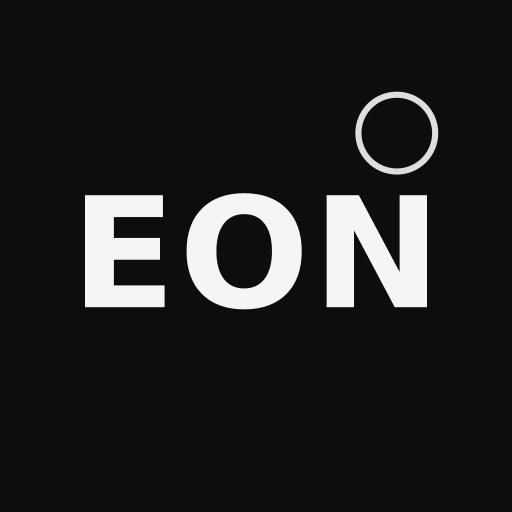
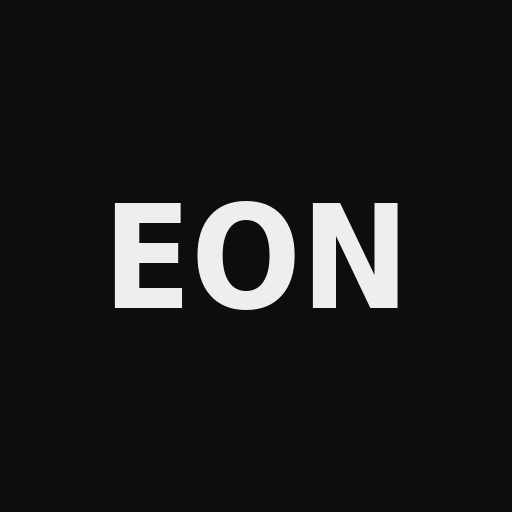
Add files via upload

diff --git a/index.html b/index.html
@@ -163,11 +163,9 @@ button:focus-visible, input:focus-visible, select:focus-visible, textarea:focus-
 }
 .topbar-inner{display:flex; align-items:flex-start; justify-content:space-between; flex-wrap:wrap; gap:16px; max-width:1600px; margin:0 auto; position:relative;}
 .brand{display:flex; align-items:center; gap:14px;}
-.brand-mark{font-weight:800; letter-spacing:.5px; line-height:1.05;}
-.brand-mark .l1{font-size:14.5px; color:#fff;}
-.brand-mark .l2{font-size:14.5px; color:#fff;}
-.brand-ring{width:26px; height:26px; border-radius:50%; border:2px solid var(--gold); position:relative; flex-shrink:0;}
-.brand-ring::after{content:''; position:absolute; top:50%; left:50%; width:6px; height:6px; margin:-3px 0 0 -3px; background:var(--gold-bright); border-radius:50%;}
+.brand-mark{font-weight:800; letter-spacing:-0.01em; line-height:1.02; font-family:'Satoshi','Inter',-apple-system,BlinkMacSystemFont,"Segoe UI",Roboto,sans-serif;}
+.brand-mark .l1{font-size:15.5px; color:#efedef;}
+.brand-mark .l2{font-size:15.5px; color:#efedef;}
 .title-block{flex:1; min-width:260px;}
 .title-block h1{font-size:20px; color:#fff; margin-bottom:3px; letter-spacing:-.015em; font-weight:700;}
 .title-block .sub{font-size:12.5px; color:#a7b4cf; letter-spacing:.005em;}
@@ -652,19 +650,17 @@ body.edit-mode .edit-banner{display:flex;}
 body.page-unlocked #appShell{display:block;}
 #pageLockGate{position:fixed; inset:0; z-index:99999; display:flex; align-items:center; justify-content:center; padding:24px; overflow:hidden;
   background:
-    radial-gradient(760px 520px at 82% 12%, rgba(52,87,213,.30), transparent 60%),
-    radial-gradient(620px 480px at 12% 88%, rgba(226,35,26,.16), transparent 55%),
-    linear-gradient(160deg, var(--navy), var(--navy2));}
+    radial-gradient(760px 520px at 82% 12%, rgba(201,162,39,.22), transparent 60%),
+    radial-gradient(620px 480px at 12% 88%, rgba(47,125,107,.14), transparent 55%),
+    linear-gradient(160deg, var(--ink-1,#050b14), var(--ink-2,#0a1526));}
 body.page-unlocked #pageLockGate{display:none;}
 #pageLockGate .lock-motif{position:absolute; inset:0; width:100%; height:100%; opacity:.09; pointer-events:none;}
 #pageLockGate .lock-screen{position:relative; background:var(--card); border-radius:var(--radius-lg); box-shadow:var(--shadow-lg); padding:38px 34px 30px; margin:0; max-width:400px; width:100%; text-align:center;
   animation:fadeRise var(--dur-3) var(--ease) both;}
 .lock-badge{width:52px; height:52px; margin:0 auto 16px; border-radius:50%; background:var(--blue-light); color:var(--blue-dark); display:flex; align-items:center; justify-content:center;}
 .lock-badge svg{width:24px; height:24px;}
-.lock-brand{margin-bottom:18px; display:flex; align-items:center; justify-content:center; gap:6px;}
-.lock-brand-l1, .lock-brand-l2{font-size:11px; font-weight:800; letter-spacing:.08em; color:var(--slate-500);}
-.lock-brand-ring{width:16px; height:16px; border-radius:50%; border:1.5px solid var(--gold); position:relative; flex-shrink:0; display:inline-block;}
-.lock-brand-ring::after{content:''; position:absolute; top:50%; left:50%; width:4px; height:4px; margin:-2px 0 0 -2px; background:var(--gold-bright); border-radius:50%;}
+.lock-brand{margin-bottom:18px; display:flex; align-items:baseline; justify-content:center; gap:5px;}
+.lock-brand-l1, .lock-brand-l2{font-size:14px; font-weight:800; letter-spacing:-0.01em; color:var(--ink-1, #050b14); font-family:'Satoshi','Inter',-apple-system,BlinkMacSystemFont,"Segoe UI",Roboto,sans-serif;}
 #pageLockGate .lock-screen h2{margin:0 0 2px; font-size:19px; color:var(--slate-900); text-wrap:balance;}
 .lock-sub{font-size:12.5px; font-weight:700; color:var(--blue-dark); margin:0 0 14px;}
 #pageLockGate .desc{color:var(--slate-500); font-size:12.8px; line-height:1.55; margin:0 0 20px;}
@@ -883,7 +879,9 @@ body.print-chart-only .chart-shell{box-shadow:none !important;}
   100%{ inset-inline-start:100%; }
 }
 @media (prefers-reduced-motion: reduce){
-  .pulse-glow{ animation:none; inset-inline-start:6%; }
+  /* .pulse-glow intentionally exempted: it's a decorative, non-flashing gradient
+     sweep (no strobe/flicker), kept always-on per explicit request so the header
+     motion doesn't disappear on machines with system-level reduced-motion set. */
   .tabpanel.active{ animation:none; }
   .accordion-item.open .accordion-body{ animation:none; }
   .tc-card .tc-check{ animation:none; }
@@ -1251,7 +1249,7 @@ html[data-theme="dark"] .section-tag{
       <svg viewBox="0 0 24 24" fill="none" stroke="currentColor" stroke-width="2" stroke-linecap="round" stroke-linejoin="round"><path d="M12 3 4 6.5V11c0 4.8 3.3 9.3 8 10.5 4.7-1.2 8-5.7 8-10.5V6.5L12 3Z"/><path d="m9 12 2 2 4-4"/></svg>
     </div>
     <div class="lock-brand">
-      <span class="lock-brand-ring" aria-hidden="true"></span><span class="lock-brand-l1">EON</span><span class="lock-brand-l2">BUSINESS HUB</span>
+      <span class="lock-brand-l1">EON</span><span class="lock-brand-l2">BUSINESS HUB</span>
     </div>
     <h2>HR Projects Operations</h2>
     <p class="lock-sub">Command Center — secure access</p>
@@ -1273,7 +1271,6 @@ html[data-theme="dark"] .section-tag{
 <div class="topbar">
   <div class="topbar-inner">
     <div class="brand">
-      <div class="brand-ring" aria-hidden="true"></div>
       <div class="brand-mark">
         <div class="l1">EON</div>
         <div class="l2">BUSINESS HUB</div>
